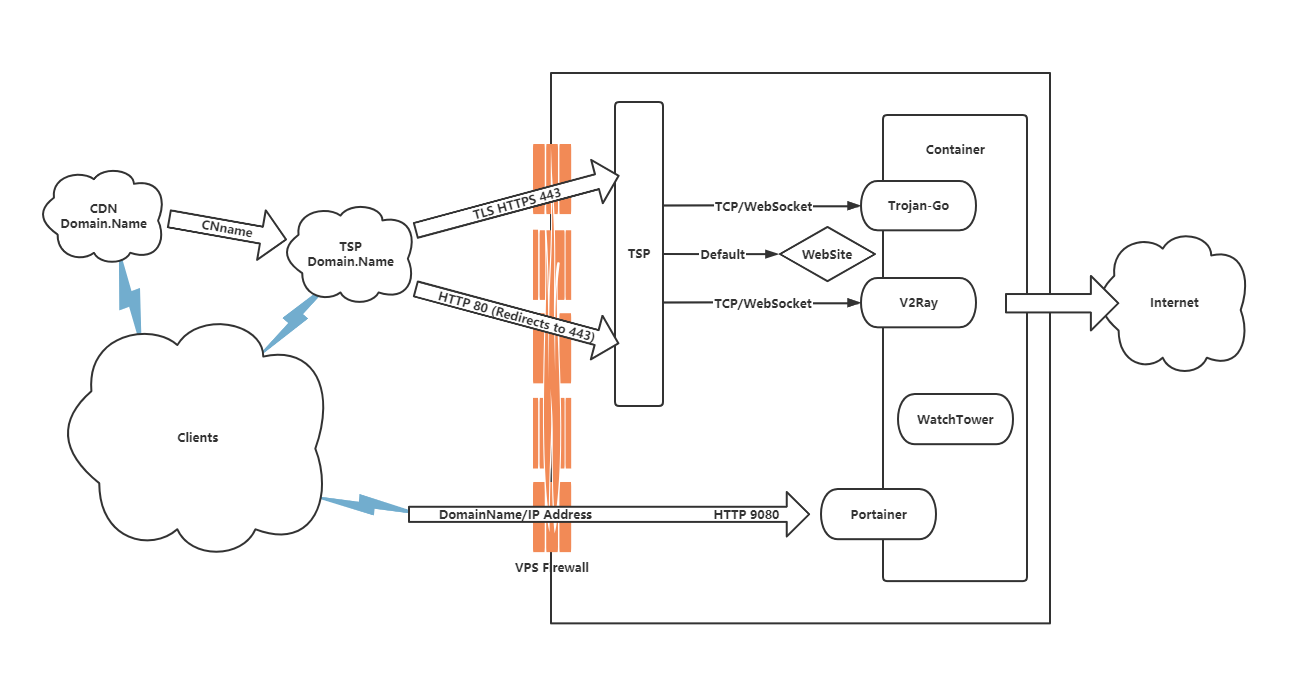
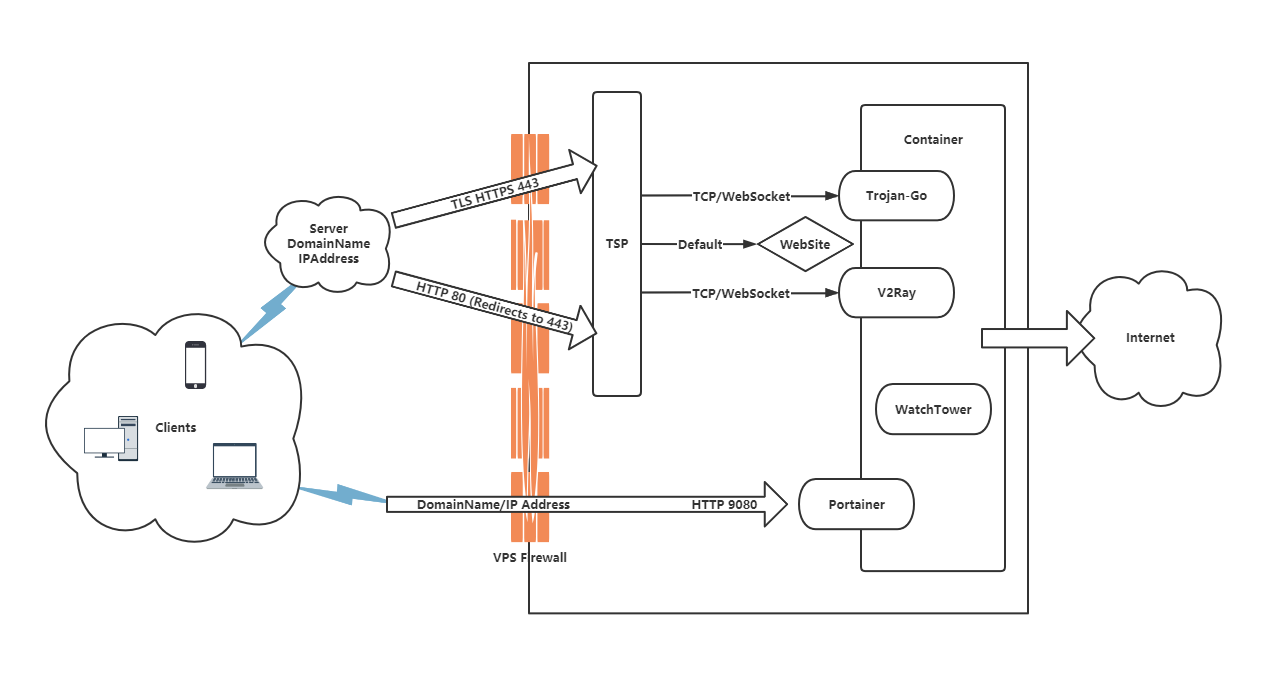
update

diff --git a/README.md b/README.md
@@ -62,16 +62,13 @@ chmod +x deploy.sh && bash deploy.sh
 
     \*Portainer 安装后，请尽快访问管理地址：<http://server.domain.name:9080> 设置管理帐号和密码。
 
--   若需配置 CDN 加速，建议使用 CNAME 方式，CNAME 方式具有以下优点：
+-   由于 TSP 的 SNI 分流特性，若需配置 CDN 加速，请使用 A 记录方式（域名 --A 记录--> VPS IP），CNAME 记录方式（域名 A --CNAME 记录--> 域名 B）的 CDN 配置不被支持（无法通过 SNI 验证）。
 
-    \*CDN 域名证书和 TSP 域名证书分别由 CDN 和 TSP 各自管理，可实现各自证书的自动更新。
+    \*开启 CDN 后，需要注意以下两点：
 
-    \*可通过访问不同的域名来控制是否通过 CDN 加速，例如，访问 TSP 域名即为直连访问。
+    1.  TSP 所管理的证书将**无法完成自动续签**，请在证书过期前 30 天内，手动关闭 CDN 加速后重启 TSP（systemctl restart tls-shunt-proxy）完成证书续签。
 
-**由于 CDN 加速仅支持 WebSocket 模式代理**，因此在开启 CDN 加速（CNAME 方式）的情况下，客户端代理配置需要做如下调整：
-
--   TCP 模式代理 **直连**：使用脚本生成的代理配置信息即可。
--   WebSocket 模式代理通过 **CDN 加速**：将脚本生成的代理配置信息中，“服务器地址” 设置为 CDN 域名，其他不变。 
+    2.  CDN 加速**仅支持** WebSocket 模式代理，TCP 模式的代理需要将客户端 **“服务器地址”**设置为 VPS IP 地址（其他配置不变）才能正常使用。 
 
 **注意** 本脚本为**单用户**配置，部署后可以**自行按需修改**代理配置内容，但修改后**不要**使用脚本菜单中的修改选项，修改选项会**重置**相关配置信息。部署后请按需**开启防火墙端口**，例如 HTTP 80、9080 及 HTTPS 443 端口。
 
